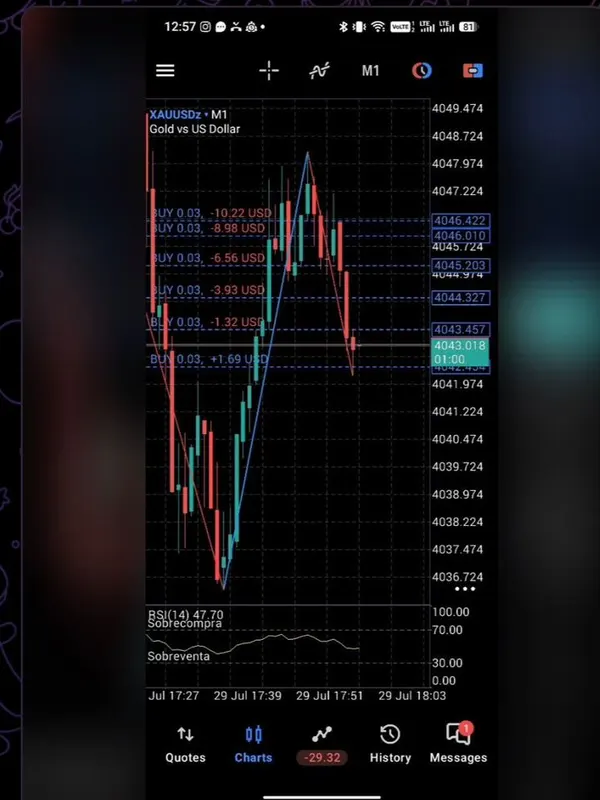
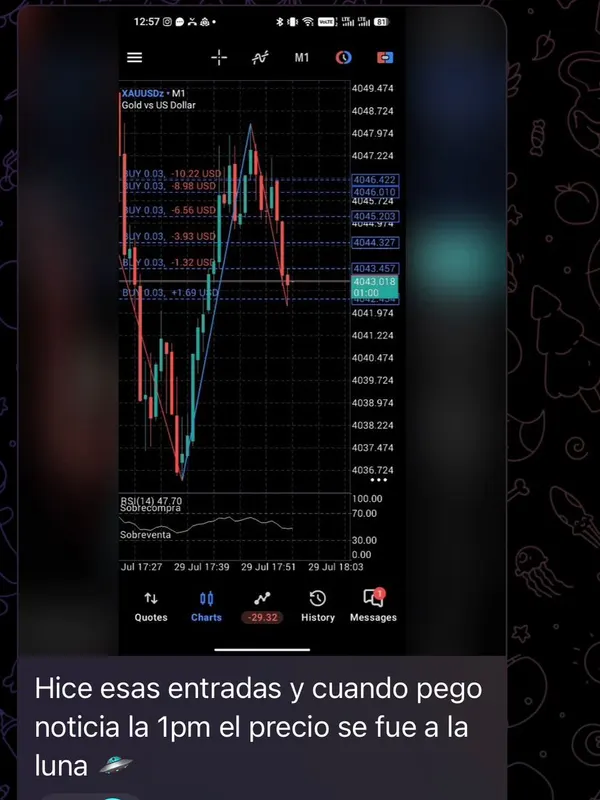
Delante van las capturas que traen lo que escribió la persona
Una lista de operaciones puede ser de cualquiera. Un mensaje escrito al mandarla,
no. Las tres que traen texto abren el mazo.

Entra tp-4-minutos, que había descartado por el hueco negro del panel. El hueco
sigue ahí, pero en una tarjeta oscura pasa por fondo de la app, y el mensaje —"Se
fue a TP en cuestion de 4 mins"— vale más que la incomodidad. Para que el globo
entre entero hay que abrir el recorte hasta un ancho que arrastra el resumen de
la cuenta: son 31,28 de balance en una cuenta que su dueño publicó en el canal, y
no hay encuadre que deje una cosa sin la otra.

A flotante le devuelvo el mensaje que le había cortado. Lo corté porque termina
en "el precio se fue a la luna" y esa frase junto a un gráfico es el registro que
Meta mira en categoría financiera. Sigue siendo cierto, pero describe lo que hizo
el oro después de una noticia, no lo que va a ganar quien lee, y va dentro de la
captura de un miembro con el descargo completo de la sección debajo.

La cuarta con mensaje se queda fuera, y aquí no es el recorte sino el contenido:
un círculo rojo trazado a mano sobre una ganancia, "rompiendo desde Aruba", un
emoji de billetes que marca/identidad.md prohíbe, y el nombre de un tercero
encima de dos de los mensajes. Es el registro de estilo de vida que Meta penaliza
y no dice nada del método. Las otras tres sí: un error de gestión, una posición
en rojo y un cierre en el objetivo.

Con eso el orden sirve a dos cosas a la vez, porque las dos primeras con mensaje
[…]

diff --git a/web/index.html b/web/index.html
@@ -29,7 +29,7 @@
 <link rel="preconnect" href="https://fonts.gstatic.com" crossorigin>
 <link rel="preload" as="style" href="https://fonts.googleapis.com/css2?family=Manrope:wght@300;400;500;600;700&family=IBM+Plex+Mono:wght@400;500&display=swap">
 <link rel="stylesheet" href="https://fonts.googleapis.com/css2?family=Manrope:wght@300;400;500;600;700&family=IBM+Plex+Mono:wght@400;500&display=swap">
-<link rel="stylesheet" href="/assets/css/estilos.css?v=11">
+<link rel="stylesheet" href="/assets/css/estilos.css?v=12">
 
 <script type="application/ld+json">
 {
@@ -999,9 +999,9 @@
   <section class="contenedor seccion" aria-labelledby="t-testimonios">
     <h2 id="t-testimonios" data-flujo>No te pedimos que nos creas.</h2>
     <p data-flujo="lento">
-      Esto es lo que mandan los miembros al canal. Las tres primeras no son
-      operaciones ganadoras: un error de gestión, una posición en rojo y un cierre
-      en negativo. Están ahí a propósito.
+      Esto es lo que mandan los miembros al canal, con lo que escribieron al
+      mandarlo. Las dos primeras no son operaciones ganadoras: un error de gestión
+      y una posición en rojo. Están ahí a propósito.
     </p>
 
     <div class="baraja" data-baraja data-flujo="hondo">
@@ -1016,10 +1016,18 @@
           </figcaption>
         </figure>
         <figure class="carta carta--captura">
-          <img src="/assets/img/testimonios/flotante.webp" alt="Gráfico de un miembro con seis compras abiertas, cinco de ellas en pérdida"
+          <img src="/assets/img/testimonios/flotante.webp" alt="Gráfico de un miembro con seis compras abiertas, cinco de ellas en pérdida, y su mensaje al canal"
                loading="lazy" decoding="async" width="600" height="800">
           <figcaption class="carta__cuerpo">
             <p class="carta__nota">Seis compras abiertas y cinco en rojo. Así se ve una posición mientras el precio va en contra.</p>
+            <cite>Miembro del canal</cite>
+          </figcaption>
+        </figure>
+        <figure class="carta carta--captura">
+          <img src="/assets/img/testimonios/tp-4-minutos.webp" alt="Operaciones de un miembro cerradas en el objetivo, con su mensaje al canal"
+               loading="lazy" decoding="async" width="600" height="800">
+          <figcaption class="carta__cuerpo">
+            <p class="carta__nota">Las dos entradas del mismo set-up, cerradas en el objetivo.</p>
             <cite>Miembro del canal</cite>
           </figcaption>
         </figure>
@@ -1330,8 +1338,8 @@
   </div>
 </footer>
 
-<script src="/assets/js/config.js?v=11"></script>
-<script src="/assets/js/movimiento.js?v=11" defer></script>
-<script src="/assets/js/main.js?v=11" defer></script>
+<script src="/assets/js/config.js?v=12"></script>
+<script src="/assets/js/movimiento.js?v=12" defer></script>
+<script src="/assets/js/main.js?v=12" defer></script>
 </body>
 </html>

diff --git a/web/gracias.html b/web/gracias.html
@@ -10,7 +10,7 @@
 <link rel="preconnect" href="https://fonts.googleapis.com">
 <link rel="preconnect" href="https://fonts.gstatic.com" crossorigin>
 <link rel="stylesheet" href="https://fonts.googleapis.com/css2?family=Archivo:wght@300;400;500&family=Bodoni+Moda:opsz,wght@6..96,600;6..96,700&family=IBM+Plex+Mono:wght@400;500&display=swap">
-<link rel="stylesheet" href="/assets/css/estilos.css?v=11">
+<link rel="stylesheet" href="/assets/css/estilos.css?v=12">
 </head>
 <body>
 
@@ -45,7 +45,7 @@
   </p>
 </main>
 
-<script src="/assets/js/config.js?v=11"></script>
-<script src="/assets/js/gracias.js?v=11" defer></script>
+<script src="/assets/js/config.js?v=12"></script>
+<script src="/assets/js/gracias.js?v=12" defer></script>
 </body>
 </html>

diff --git a/web/privacidad.html b/web/privacidad.html
@@ -10,7 +10,7 @@
 <link rel="preconnect" href="https://fonts.googleapis.com">
 <link rel="preconnect" href="https://fonts.gstatic.com" crossorigin>
 <link rel="stylesheet" href="https://fonts.googleapis.com/css2?family=Archivo:wght@300;400;500&family=Bodoni+Moda:opsz,wght@6..96,600;6..96,700&family=IBM+Plex+Mono:wght@400;500&display=swap">
-<link rel="stylesheet" href="/assets/css/estilos.css?v=11">
+<link rel="stylesheet" href="/assets/css/estilos.css?v=12">
 </head>
 <body>
 <!-- BORRADOR. No es asesoría legal. Antes de publicar, que lo revise un abogado

diff --git a/web/ir.html b/web/ir.html
@@ -6,7 +6,7 @@
 <title>Abriendo Exness…</title>
 <meta name="robots" content="noindex, nofollow">
 <meta name="theme-color" content="#0A0A0B">
-<link rel="stylesheet" href="/assets/css/estilos.css?v=11">
+<link rel="stylesheet" href="/assets/css/estilos.css?v=12">
 </head>
 <body>
 <!--
@@ -29,7 +29,7 @@
   </p>
 </main>
 
-<script src="/assets/js/config.js?v=11"></script>
-<script src="/assets/js/ir.js?v=11" defer></script>
+<script src="/assets/js/config.js?v=12"></script>
+<script src="/assets/js/ir.js?v=12" defer></script>
 </body>
 </html>

diff --git a/web/assets/img/testimonios/LEEME.md b/web/assets/img/testimonios/LEEME.md
@@ -1,6 +1,6 @@
 # Capturas de testimonios
 
-Nueve archivos WebP, **todos a 600x800 (3:4) exactos**. Van en un mazo
+Diez archivos WebP, **todos a 600x800 (3:4) exactos**. Van en un mazo
 deslizable y una proporción distinta rompe la fila.
 
 **Las capturas van con su marco, no recortadas al panel.** Fondo de Telegram a
@@ -12,8 +12,9 @@ saldos, no el contexto.
 
 | Archivo | Qué muestra |
 |---|---|
-| `lotaje.webp` | El error de lotaje. **Es la más importante de todas.** |
-| `flotante.webp` | Seis compras abiertas, cinco en rojo |
+| `lotaje.webp` | El error de lotaje, con su mensaje. **La más importante de todas.** |
+| `flotante.webp` | Seis compras abiertas, cinco en rojo, con su mensaje |
+| `tp-4-minutos.webp` | Dos entradas cerradas en el objetivo, con su mensaje |
 | `perdedora.webp` | Historial con una operación cerrada en -0.04 |
 | `zonas.webp` | Ocho ventas escalonadas sobre niveles marcados |
 | `historial-01.webp` | Compras del 25 de agosto |
@@ -22,24 +23,27 @@ saldos, no el contexto.
 | `salidas.webp` | Cierres parciales de una posición |
 | `posiciones.webp` | Nueve compras de 0,03 al mismo cierre |
 
-**El orden del mazo importa y no es el que llegaron.** Las tres primeras son las
-que no salieron bien: el error de gestión, la posición en rojo y el cierre en
-negativo. Un mazo que abre con nueve pantallas de ganancia es exactamente la
-página de "mira cuánto ganamos" que el cliente pidió no hacer, y es lo que la
-skill `revision-copy-trading` marca como bloqueante.
+**Primero las que llevan el mensaje de la persona.** Una captura suelta puede
+ser de cualquiera; un mensaje escrito al mandarla, no. Y las dos primeras de esas
+tres son además las que no salieron bien —el error de gestión y la posición en
+rojo— así que el orden sirve a las dos cosas: diez pantallas seguidas de ganancia
+son la página de "mira cuánto ganamos" que el cliente pidió no hacer, y lo que
+`revision-copy-trading` marca como bloqueante.
 
-## Las tres que quedaron fuera
+## Las dos que quedaron fuera
 
-De las doce que mandó Cristian se descartaron tres, y por motivos distintos:
+De las doce que mandó Cristian, diez están dentro. Las otras dos:
 
 - **La del gráfico ascendente.** `web/CLAUDE.md`: ningún gráfico de esta página
   puede subir, tampoco uno real. Una línea que sube en una landing de trading es
   una promesa de rentabilidad dibujada.
-- **La de la conversación de Telegram.** Nombres reales y fotos de perfil de
-  otras personas del canal en toda la captura. No hay recorte que la salve.
-- **La del "se fue a TP en 4 mins".** El panel deja un hueco negro enorme entre
-  las operaciones y el mensaje, y abajo aparece un avatar con cara. Su frase ya
-  vive como texto en la página.
+- **La conversación de "GRACIAS LEE".** Aquí no es el recorte, es el contenido:
+  un círculo rojo trazado a mano sobre una ganancia, "rompiendo desde Aruba", un
+  emoji de billetes —prohibido por `marca/identidad.md`— y el nombre de un
+  tercero encima de dos de los mensajes. Es el registro de estilo de vida que
+  Meta penaliza en categoría financiera, y no aporta nada sobre el método. Las
+  otras tres con mensaje sí: un error de gestión, una posición en rojo y un
+  cierre en el objetivo.
 
 ## Antes de subir una nueva
 

diff --git a/web/CLAUDE.md b/web/CLAUDE.md
@@ -159,12 +159,13 @@ sección entera. Lo que se recorta son nombres, caras y saldos, no el contexto.
 Se generan con \`herramientas/testimonios.mjs\`; **nunca con \`sips -c\`**, que
 recorta centrado y mide el offset desde el centro.
 
-**El orden del mazo de capturas no es el que llegaron.** Las tres primeras son
-las que no salieron bien: el error de gestión, la posición en rojo y el cierre
-en negativo. Nueve pantallas seguidas de ganancia son la página de "mira cuánto
-ganamos" que el cliente pidió no hacer, y lo que `revision-copy-trading` marca
-como bloqueante. En `assets/img/testimonios/LEEME.md` están las que quedaron
-fuera y por qué.
+**En el mazo de capturas van primero las que llevan el mensaje de la persona.**
+Una captura suelta puede ser de cualquiera; un mensaje escrito al mandarla, no.
+Y las dos primeras de esas son además las que no salieron bien, así que el orden
+sirve a las dos cosas: diez pantallas seguidas de ganancia son la página de
+"mira cuánto ganamos" que el cliente pidió no hacer, y lo que
+`revision-copy-trading` marca como bloqueante. En
+`assets/img/testimonios/LEEME.md` están las que quedaron fuera y por qué.
 
 ## Movimiento
 
